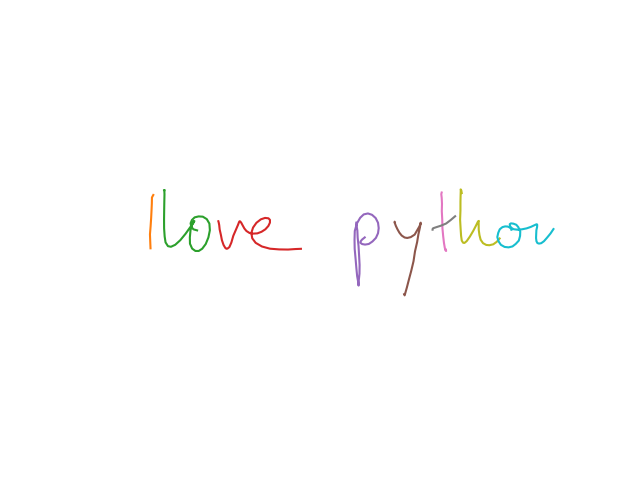
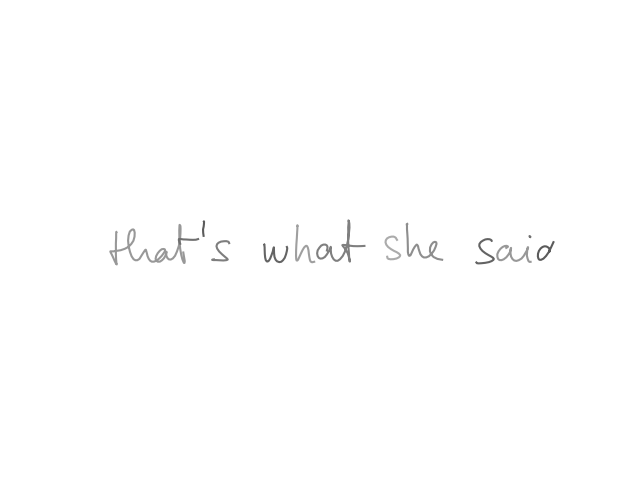
update code

Changed region(s): [[0.1562, 0.4062, 0.875, 0.625]]

diff --git a/get_hand.py b/get_hand.py
@@ -43,14 +43,14 @@ def get_handwriting(text, style, bias, samples=1):
 
 
 def add_color(color, image_out):
-    img = Image.open(image_out)
-    width, height = img.size
-    for x in range(width):
-        for y in range(height):
-            old_color = list(img.getpixel((x, y)))
-            new_color = [old_color[x] + color[x]
-                         for x in range(3)]
-            img.putpixel((x, y), tuple(new_color))
+    img = Image.open(image_out).convert('LA')
+    # width, height = img.size
+    # for x in range(width):
+    #     for y in range(height):
+    #         old_color = list(img.getpixel((x, y)))
+    #         new_color = [old_color[x] + color[x]
+    #                      for x in range(3)]
+    #         img.putpixel((x, y), tuple(new_color))
     img.save(image_out)
 
 

diff --git a/app.py b/app.py
@@ -12,7 +12,7 @@ with sr.Microphone() as source:
 try:
     text = r.recognize_google(audio)
     # print('Text: ' + text)
-    os.system('python get_hand.py -t "' + text + '" -s 4' )
+    os.system('python get_hand.py -t "' + text + '" -s 4 -c 0,0,200' )
     img = Image.open('images/0.png')
     img.show()
 except:
